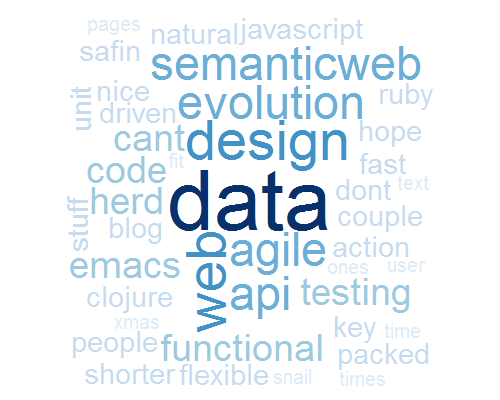
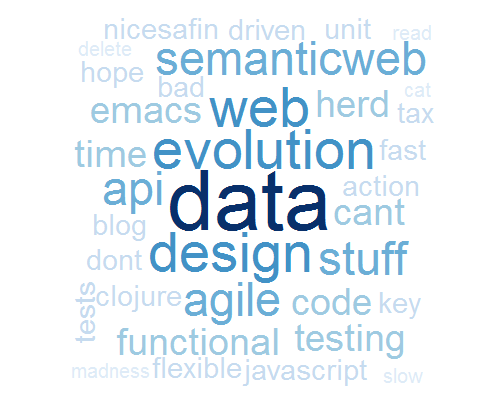
quotes

Changed region(s): [[0.12, 0.03, 0.87, 0.96]]

diff --git a/pages/quotes.md b/pages/quotes.md
@@ -9,6 +9,26 @@ sidebar: "<img src='http://al3xandr3.github.com/img/quotes_frequency.png' alt='q
 
 ## 2012
 
+<blockquote data-day="2012-10-03">
+everything is temporary - is just a matter of time that it changes
+</blockquote>
+
+<blockquote data-day="2012-10-01">
+graph complex for yourself, graph simple for others #analyst
+</blockquote>
+
+<blockquote data-day="2012-09-30">
+touch screens are at tipping point, the touch generation is now growing up
+</blockquote>
+
+<blockquote data-day="2012-09-30">
+competition, over time, has the tendency to eliminate inefficiencies
+</blockquote>
+
+<blockquote data-day="2012-09-29">
+For the sake of evolution, patents should be instead tax on copying bad stuff, not tax on copying good stuff
+</blockquote>
+
 <blockquote data-day="2012-08-29">
 simplicity is key for scalability
 </blockquote>
